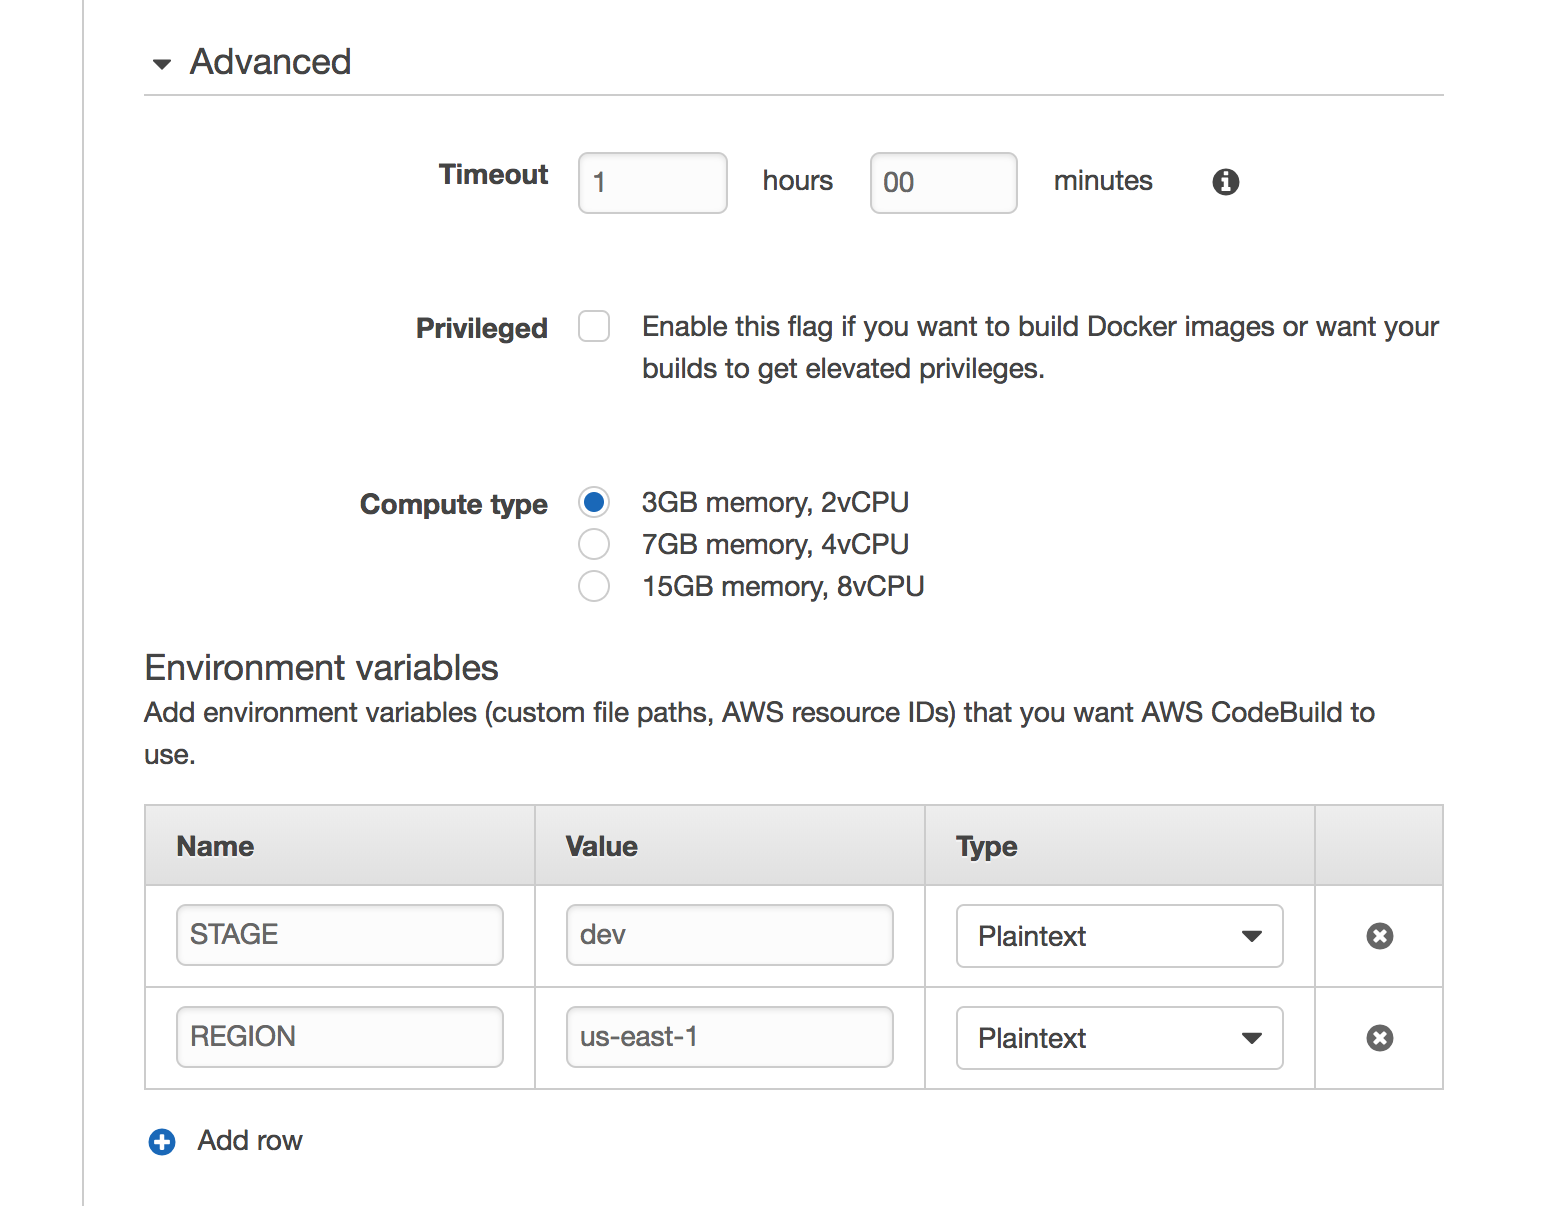
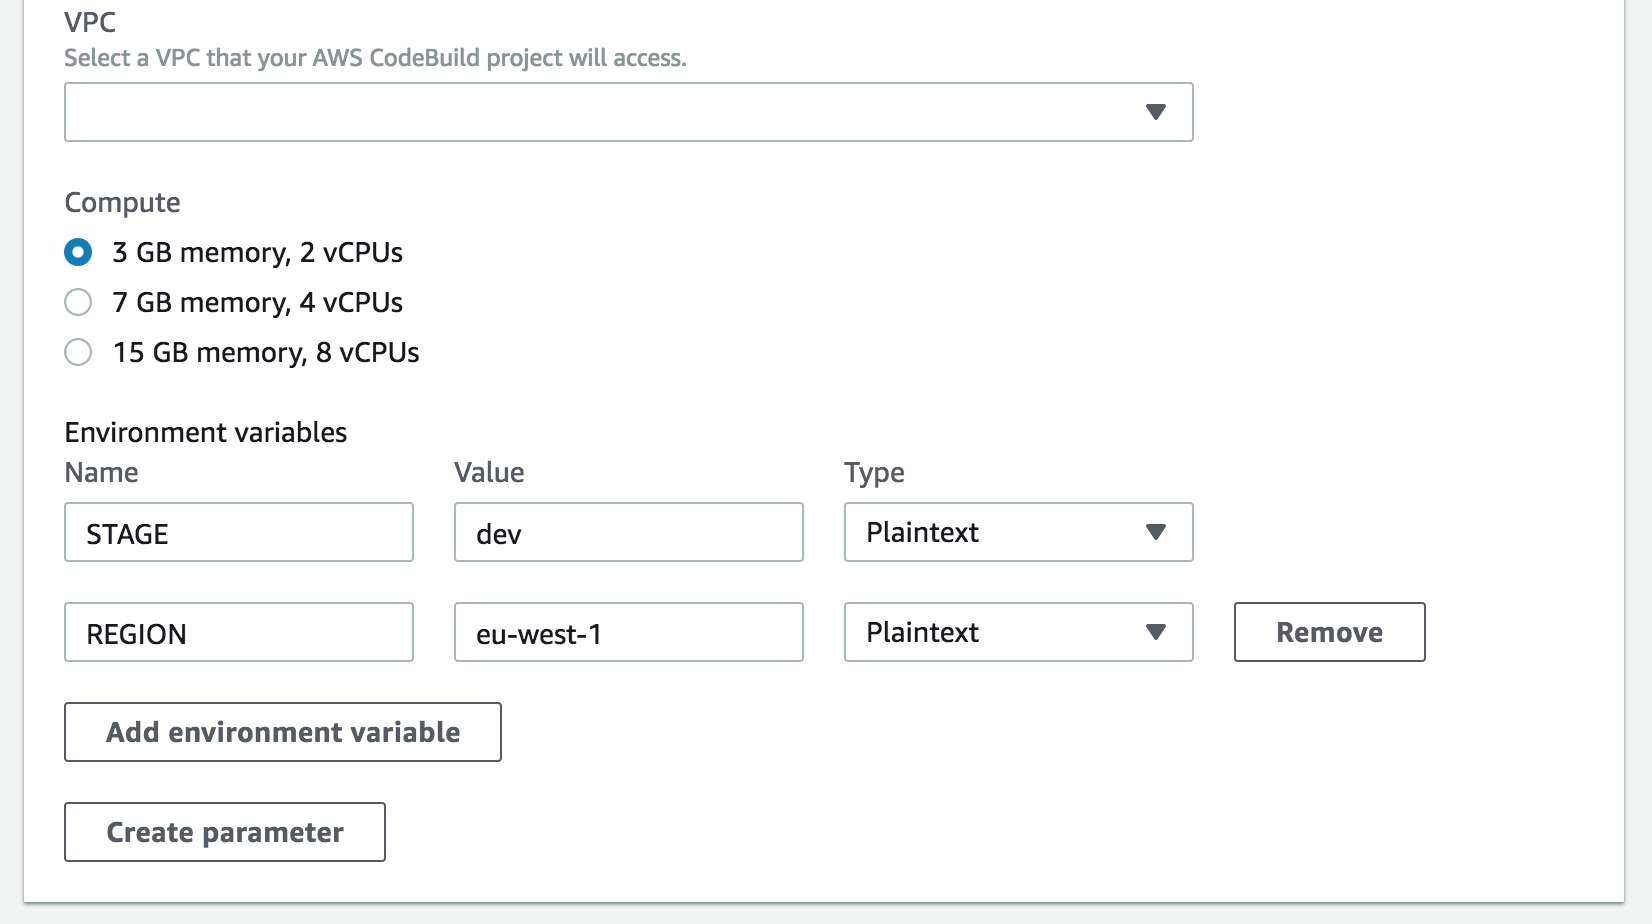
- updated screenshots in the CI/CD module

diff --git a/06_CodePipeline and CodeBuild/README.md b/06_CodePipeline and CodeBuild/README.md
@@ -9,67 +9,63 @@
 
 1. Go to the AWS Console
 
-2. Go to the CodePipeline console
+2. Go to the `CodePipeline` console
 
-3. Click `Create Pipeline`
+![](/images/mod06-000.png)
+
+3. Click `Create pipeline`
 
 4. Call your pipeline `workshop-` followed by your name, e.g. `workshop-yancui`
 
+6. Leave the other configurations as is
+
 ![](/images/mod06-001.png)
 
-5. Click `Next step`
+7. Click `Next`
 
-6. Choose `GitHub` as `Source provider`
+7. Choose `GitHub` as `Source provider`
 
-7. Click `Connect to GitHub`
+8. Click `Connect to GitHub`
 
-8. Authorize the app
+9. Authorize the app
 
-9. Select your repo, and branch
+10. Select your repo, and branch
 
 ![](/images/mod06-002.png)
 
-10. Click `Next step`
+11. Click `Next`
 
-11. Choose `AWS CodeBuild` as `Build provider`
+12. Choose `AWS CodeBuild` as `Build provider`
 
-12. Choose `Create a new build project` and call the build project `workshop-dev-` followed by your name, e.g. `workshop-dev-yancui`
+13. Click `Create project` and call the build project `workshop-dev-` followed by your name, e.g. `workshop-dev-yancui`
 
 ![](/images/mod06-003.png)
 
-13. Choose `Use an image managed by AWS CodeBuild` and choose `Ubuntu`, `Node.js` and `aws/codebuild/nodejs:8.11.0`
-
-14. Choose `Use the buildspec.yml in the source code root directory`
+14. Under `Environment image`, choose `Managed image` and choose `Ubuntu`, `Node.js` and `aws/codebuild/nodejs:8.11.0`, and `Always use the latest image for this runtime version`
 
 ![](/images/mod06-004.png)
 
-15. Leave the `Caching` and `VPC` configurations as they are
+15. Expand `Additional configuration`, under `Environment variables`, add the environment variables `STAGE` and `REGION`. We'll use them to control which stage and region our functions would be deployed to
 
-16. Under `Advanced`, `Environment variables`, add the environment variables `STAGE` and `REGION`. We'll use them to control which stage and region our functions would be deployed to.
+16. Leave other additional configurations as they are
 
 ![](/images/mod06-005.png)
 
-17. Cick `Save build project`
+17. Under `Buildspec`, choose `Use a buildspec file`
 
 ![](/images/mod06-006.png)
 
-18. Click `Next step`
+18. Cick `Continue to CodePipeline`
 
-19. Choose `No Deployment` for `Deployment provider`. We'll deploy from our build script
+19. Click `Next`
+
+20. Click `Skip`, we'll deploy during the build stage when we run our build script
+
+21. Click `Skip` to confirm
 
 ![](/images/mod06-007.png)
 
-20. Click `Next step`
-
-21. Click `Create role`
-
-22. In the new window, accept the default permissions and click `Allow`
-
-23. Click `Next step`
-
-24. Click `Create pipeline`
-
-![](/images/mod06-008.png)
+22. Review the configuration and click `Create pipeline`
 
 Congratulations! You have created your first pipeline!
 
